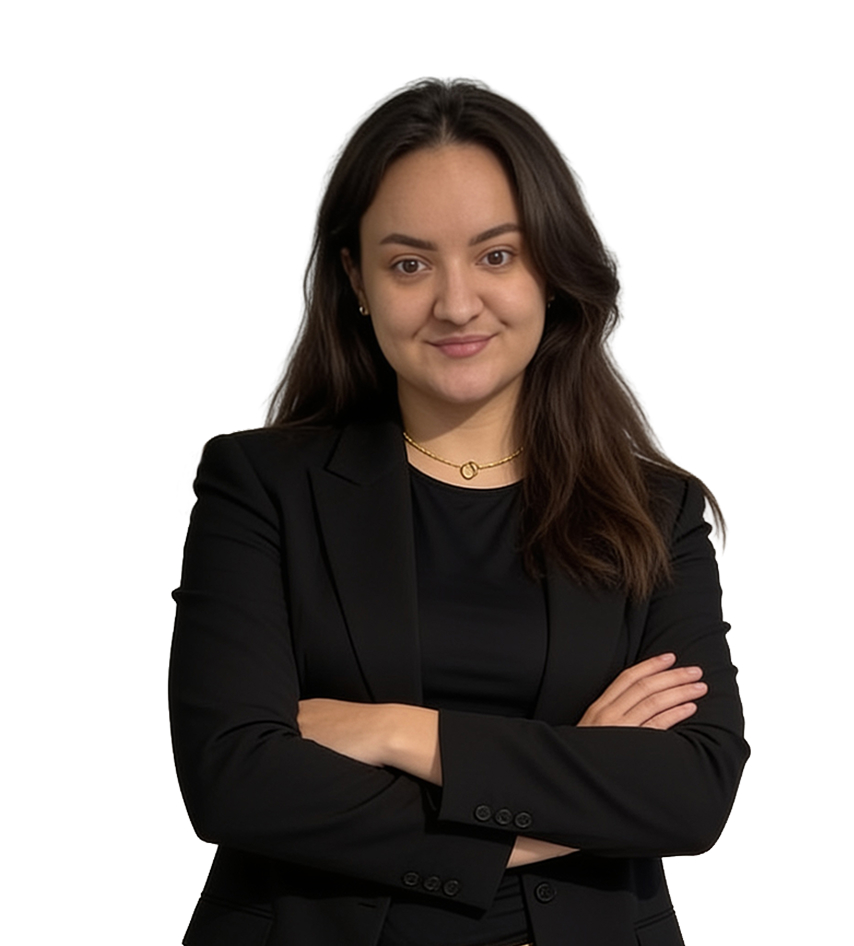
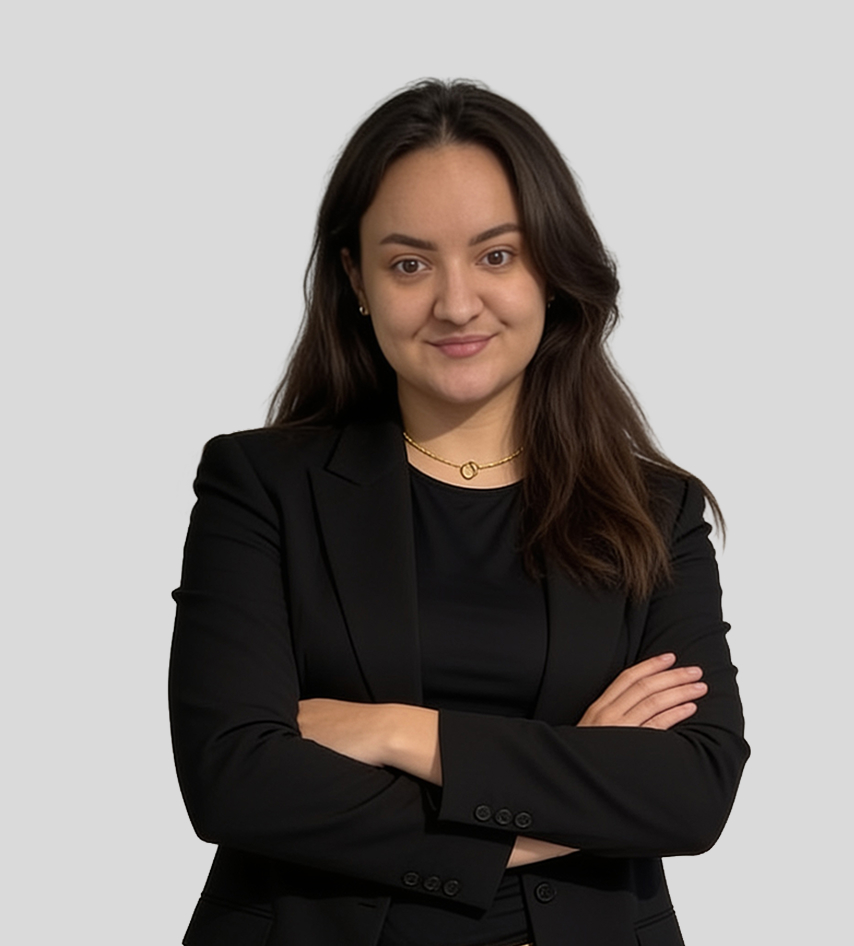
fix about

diff --git a/app/styles/_about.scss b/app/styles/_about.scss
@@ -1,7 +1,7 @@
 @use 'mixins' as *;
 
 .about-page {
-	background: #f6ebe8;
+	background: #faf2f0;
 	min-height: 100svh;
 	display: flex;
 	flex-direction: column;
@@ -94,12 +94,12 @@
 	h2 {
 		margin: 0 0 1.15rem;
 		max-width: none;
-		font-size: clamp(1rem, 1.4vw, 1.15rem);
-		font-weight: 600;
+		font-size: clamp(1.15rem, 1.8vw, 1.45rem);
+		font-weight: 400;
 		letter-spacing: 0.02em;
 		text-transform: uppercase;
 		line-height: 1.3;
-		color: var(--text);
+		color: #686868;
 	}
 
 	p {
@@ -120,7 +120,7 @@
 	margin: 0;
 	padding: 0;
 	display: grid;
-	gap: 0.45rem;
+	gap: 0.15rem;
 
 	li {
 		font-size: clamp(0.95rem, 1.2vw, 1.05rem);
@@ -186,7 +186,7 @@
 .about-gallery {
 	padding: clamp(2.5rem, 5vw, 4rem) 0 clamp(3.5rem, 7vw, 5.5rem);
 	overflow: hidden;
-	background: #f6ebe8;
+	background: #faf2f0;
 }
 
 .about-gallery-marquee {
@@ -207,12 +207,12 @@
 
 	&::before {
 		left: 0;
-		background: linear-gradient(to right, #f6ebe8, transparent);
+		background: linear-gradient(to right, #faf2f0, transparent);
 	}
 
 	&::after {
 		right: 0;
-		background: linear-gradient(to left, #f6ebe8, transparent);
+		background: linear-gradient(to left, #faf2f0, transparent);
 	}
 }
 

diff --git a/app/styles/_testimonials.scss b/app/styles/_testimonials.scss
@@ -5,7 +5,7 @@
   padding: clamp(4rem, 8vw, 7rem) 0;
 
   &.is-right {
-    background: #f6ebe8;
+    background: #faf2f0;
 
     .testimonials-slider {
       margin-left: auto;
